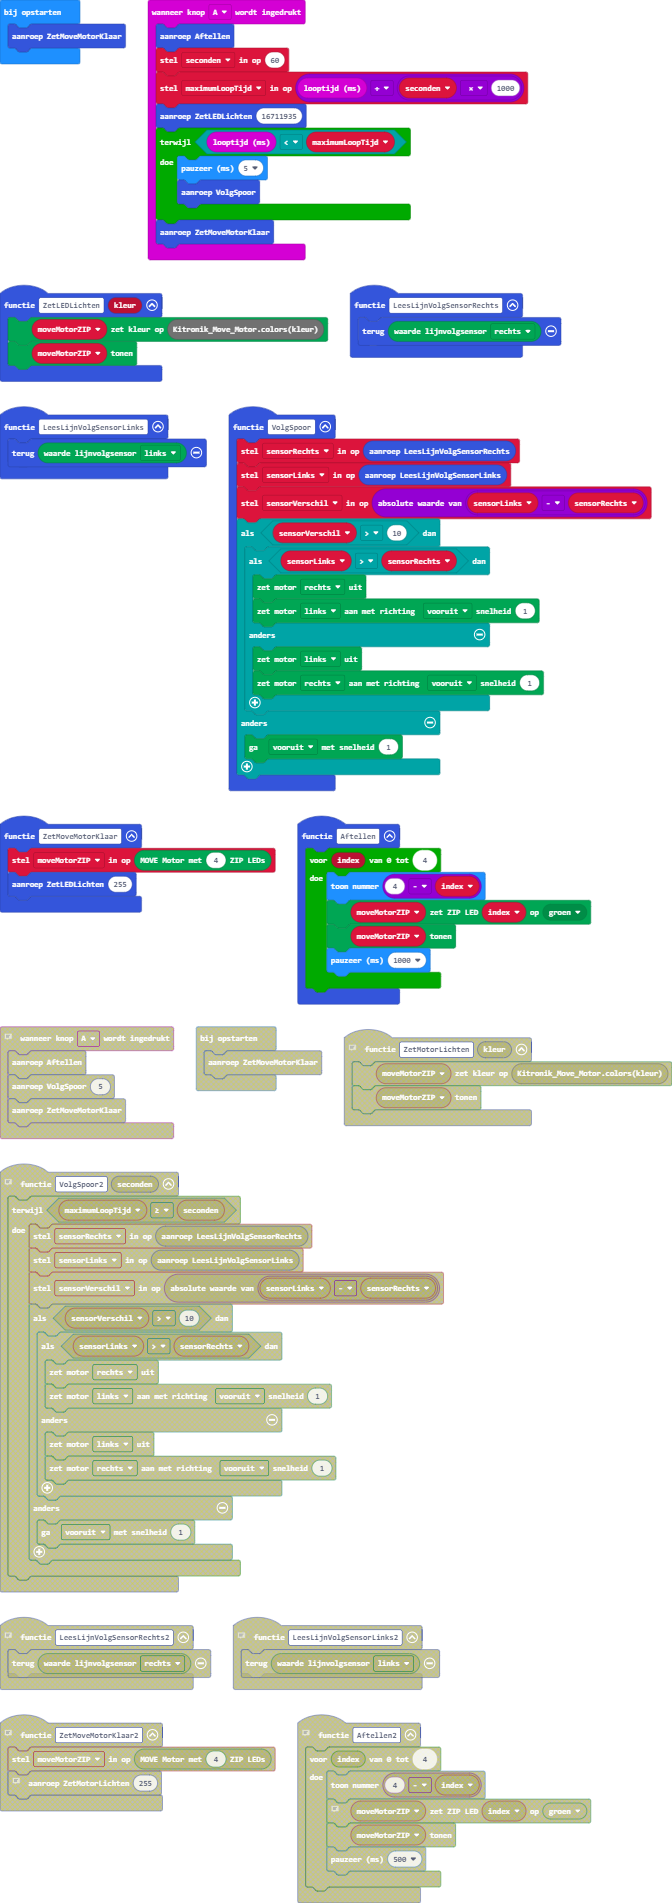
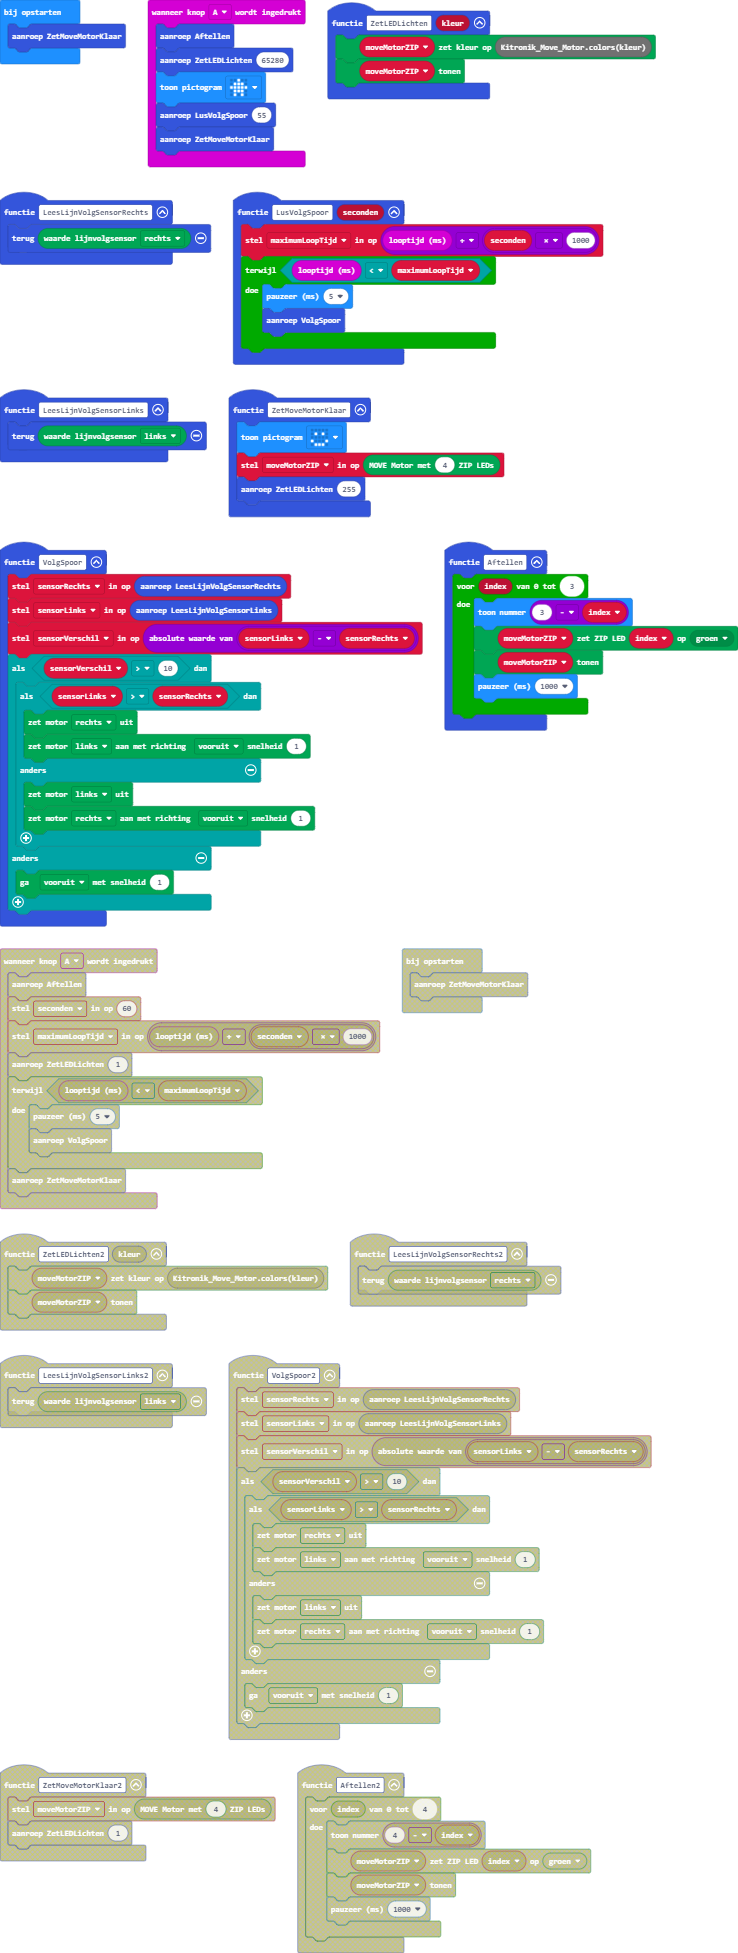
Verdere uitwerking oefening

diff --git a/main.ts b/main.ts
@@ -1,6 +1,13 @@
+function LusVolgSpoor (seconden: number) {
+    maximumLoopTijd = input.runningTime() + seconden * 1000
+    while (input.runningTime() < maximumLoopTijd) {
+        basic.pause(5)
+        VolgSpoor()
+    }
+}
 function Aftellen () {
-    for (let index = 0; index <= 4; index++) {
-        basic.showNumber(4 - index)
+    for (let index = 0; index <= 3; index++) {
+        basic.showNumber(3 - index)
         moveMotorZIP.setZipLedColor(index, Kitronik_Move_Motor.colors(Kitronik_Move_Motor.ZipLedColors.Green))
         moveMotorZIP.show()
         basic.pause(1000)
@@ -8,13 +15,9 @@ function Aftellen () {
 }
 input.onButtonPressed(Button.A, function () {
     Aftellen()
-    seconden = 60
-    maximumLoopTijd = input.runningTime() + seconden * 1000
-    ZetLEDLichten(16711935)
-    while (input.runningTime() < maximumLoopTijd) {
-        basic.pause(5)
-        VolgSpoor()
-    }
+    ZetLEDLichten(65280)
+    basic.showIcon(IconNames.House)
+    LusVolgSpoor(55)
     ZetMoveMotorKlaar()
 })
 function LeesLijnVolgSensorRechts () {
@@ -37,6 +40,7 @@ function VolgSpoor () {
     }
 }
 function ZetMoveMotorKlaar () {
+    basic.showIcon(IconNames.Happy)
     moveMotorZIP = Kitronik_Move_Motor.createMoveMotorZIPLED(4)
     ZetLEDLichten(255)
 }
@@ -50,7 +54,6 @@ function LeesLijnVolgSensorLinks () {
 let sensorVerschil = 0
 let sensorLinks = 0
 let sensorRechts = 0
-let maximumLoopTijd = 0
-let seconden = 0
 let moveMotorZIP: Kitronik_Move_Motor.MoveMotorZIP = null
+let maximumLoopTijd = 0
 ZetMoveMotorKlaar()

diff --git a/main.py b/main.py
@@ -1,6 +1,12 @@
+def LusVolgSpoor(seconden: number):
+    global maximumLoopTijd
+    maximumLoopTijd = input.running_time() + seconden * 1000
+    while input.running_time() < maximumLoopTijd:
+        basic.pause(5)
+        VolgSpoor()
 def Aftellen():
-    for index in range(5):
-        basic.show_number(4 - index)
+    for index in range(4):
+        basic.show_number(3 - index)
         moveMotorZIP.set_zip_led_color(index,
             Kitronik_Move_Motor.colors(Kitronik_Move_Motor.ZipLedColors.GREEN))
         moveMotorZIP.show()
@@ -8,36 +14,39 @@ def Aftellen():
 
 def on_button_pressed_a():
     Aftellen()
-    VolgSpoor(25)
+    ZetLEDLichten(65280)
+    basic.show_icon(IconNames.HOUSE)
+    LusVolgSpoor(5)
+    ZetMoveMotorKlaar()
 input.on_button_pressed(Button.A, on_button_pressed_a)
 
 def LeesLijnVolgSensorRechts():
     return Kitronik_Move_Motor.read_sensor(Kitronik_Move_Motor.LfSensor.RIGHT)
-def VolgSpoor(seconden: number):
-    global maximumLoopTijd, sensorRechts, sensorLinks, sensorVerschil
-    maximumLoopTijd = input.running_time() + seconden * 1000
-    while input.running_time() < maximumLoopTijd:
-        sensorRechts = LeesLijnVolgSensorRechts()
-        sensorLinks = LeesLijnVolgSensorLinks()
-        sensorVerschil = abs(sensorLinks - sensorRechts)
-        if sensorVerschil > 10:
-            if sensorLinks > sensorRechts:
-                Kitronik_Move_Motor.motor_off(Kitronik_Move_Motor.Motors.MOTOR_RIGHT)
-                Kitronik_Move_Motor.motor_on(Kitronik_Move_Motor.Motors.MOTOR_LEFT,
-                    Kitronik_Move_Motor.MotorDirection.FORWARD,
-                    1)
-            else:
-                Kitronik_Move_Motor.motor_off(Kitronik_Move_Motor.Motors.MOTOR_LEFT)
-                Kitronik_Move_Motor.motor_on(Kitronik_Move_Motor.Motors.MOTOR_RIGHT,
-                    Kitronik_Move_Motor.MotorDirection.FORWARD,
-                    1)
+def VolgSpoor():
+    global sensorRechts, sensorLinks, sensorVerschil
+    sensorRechts = LeesLijnVolgSensorRechts()
+    sensorLinks = LeesLijnVolgSensorLinks()
+    sensorVerschil = abs(sensorLinks - sensorRechts)
+    if sensorVerschil > 10:
+        if sensorLinks > sensorRechts:
+            Kitronik_Move_Motor.motor_off(Kitronik_Move_Motor.Motors.MOTOR_RIGHT)
+            Kitronik_Move_Motor.motor_on(Kitronik_Move_Motor.Motors.MOTOR_LEFT,
+                Kitronik_Move_Motor.MotorDirection.FORWARD,
+                1)
         else:
-            Kitronik_Move_Motor.move(Kitronik_Move_Motor.DriveDirections.FORWARD, 1)
+            Kitronik_Move_Motor.motor_off(Kitronik_Move_Motor.Motors.MOTOR_LEFT)
+            Kitronik_Move_Motor.motor_on(Kitronik_Move_Motor.Motors.MOTOR_RIGHT,
+                Kitronik_Move_Motor.MotorDirection.FORWARD,
+                1)
+    else:
+        Kitronik_Move_Motor.move(Kitronik_Move_Motor.DriveDirections.FORWARD, 1)
 def ZetMoveMotorKlaar():
     global moveMotorZIP
+    basic.show_icon(IconNames.HAPPY)
     moveMotorZIP = Kitronik_Move_Motor.create_move_motor_zipled(4)
     ZetLEDLichten(255)
 def ZetLEDLichten(kleur: number):
+    moveMotorZIP.clear()
     moveMotorZIP.set_color(Kitronik_Move_Motor.colors(kleur))
     moveMotorZIP.show()
 def LeesLijnVolgSensorLinks():
@@ -45,6 +54,6 @@ def LeesLijnVolgSensorLinks():
 sensorVerschil = 0
 sensorLinks = 0
 sensorRechts = 0
-maximumLoopTijd = 0
 moveMotorZIP: Kitronik_Move_Motor.MoveMotorZIP = None
+maximumLoopTijd = 0
 ZetMoveMotorKlaar()
